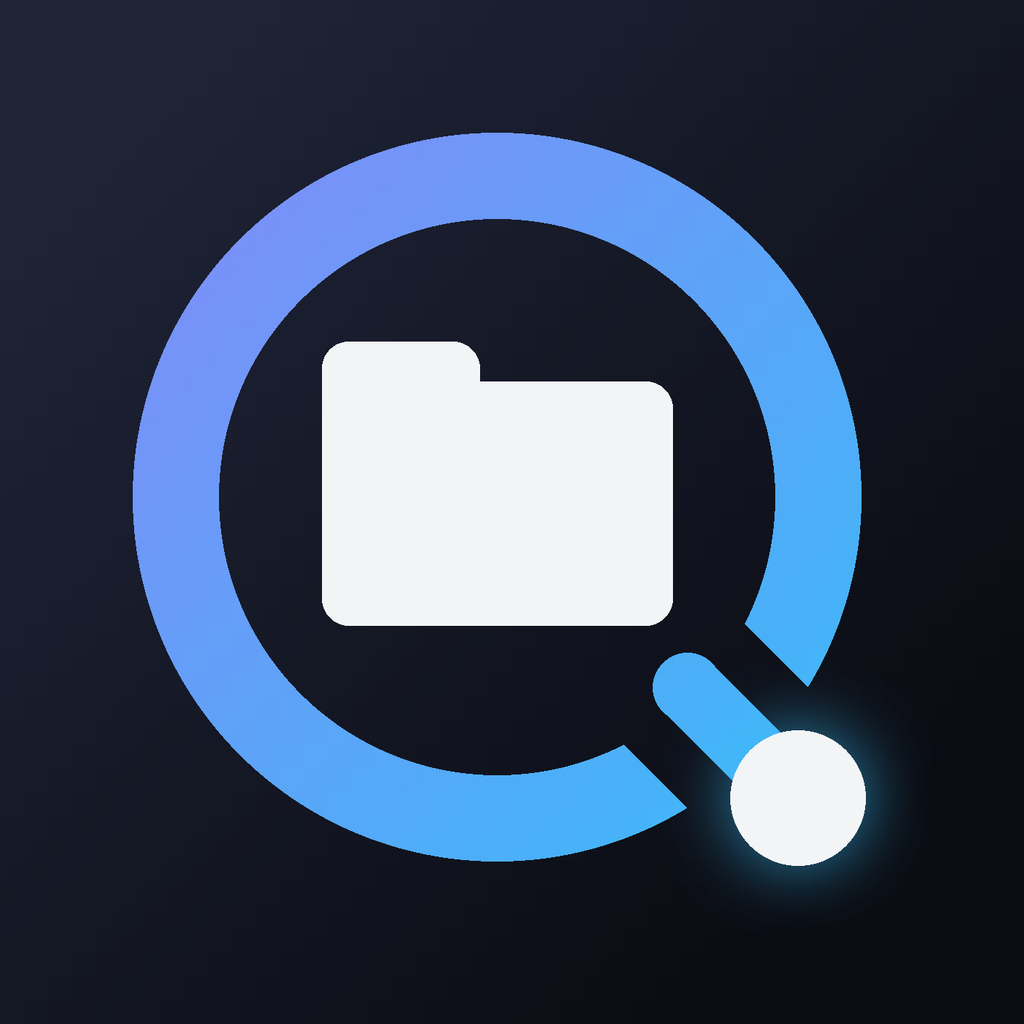
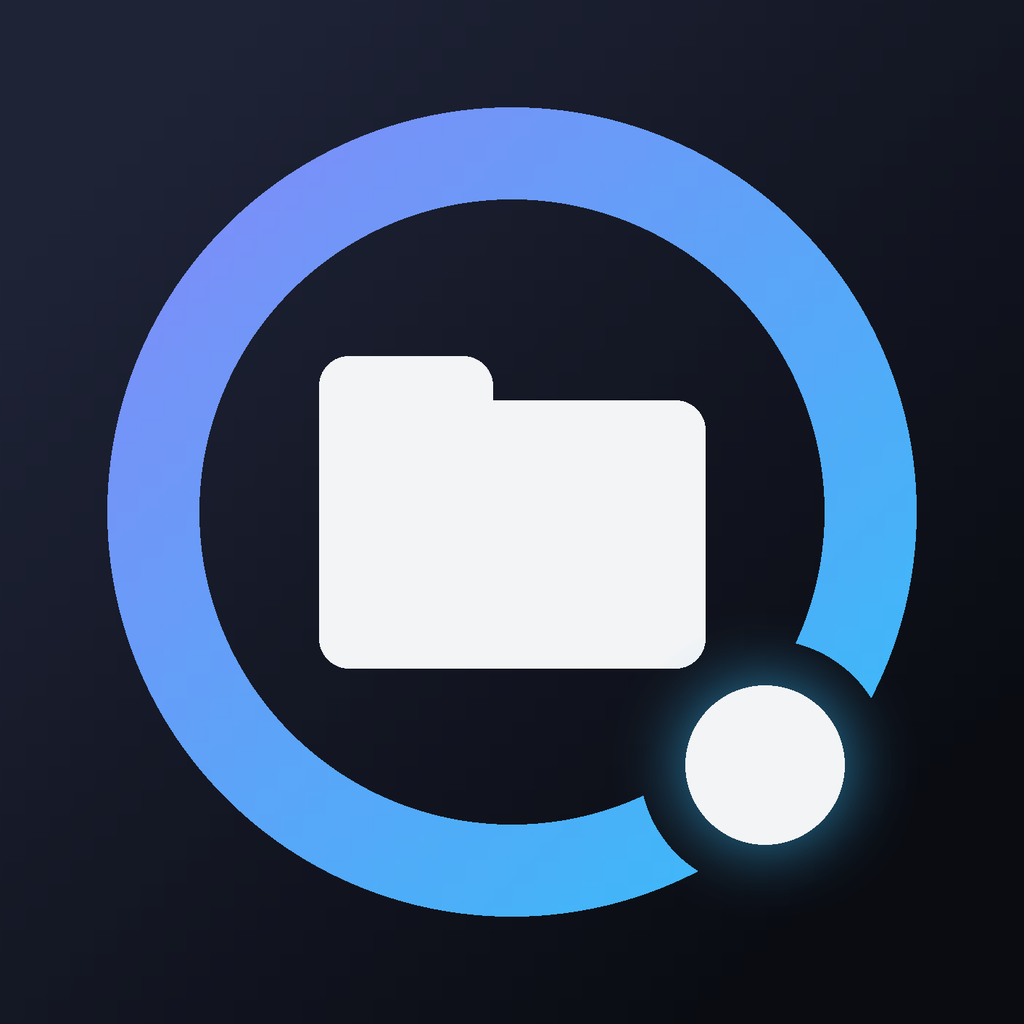
feat(ui): alinear el icono de Qubit Explorer con el de VidForge
Usa la misma composición que VidForge (aro, corte y nodo encendido) con
la carpeta en el centro. Agrega el SVG editable en Resources.

Changed region(s): [[0.0938, 0.0938, 0.9062, 0.9062]]

diff --git a/generate_icon.py b/generate_icon.py
@@ -1,11 +1,11 @@
-"""Genera el ícono de Qubit Explorer: una Q con carpeta y un qubit al final de la cola."""
+"""Genera el ícono de Qubit Explorer: un aro con carpeta y un nodo encendido en el corte, igual que VidForge."""
 import os
 
 from PIL import Image, ImageDraw, ImageFilter
 
 S = 2048
 VIOLET, AQUA, WHITE = (129, 140, 248), (56, 189, 248), (243, 244, 246)
-CX, CY = S * 0.49, S * 0.49
+CX, CY = S * 0.5, S * 0.5
 
 
 def gradient(c1, c2):
@@ -24,50 +24,42 @@ def background():
 def masks():
     ring = Image.new("L", (S, S), 0)
     d = ImageDraw.Draw(ring)
-    R, w = S * 0.245, S * 0.058
+    R, w = S * 0.272, S * 0.062
     d.ellipse([CX - R, CY - R, CX + R, CY + R], fill=255)
     r = R - w
     d.ellipse([CX - r, CY - r, CX + r, CY + r], fill=0)
-    # Corte de la Q alrededor de la cola
+    # Nodo: va sobre la línea media del aro, en el mismo eje de la cola de la Q
     k = 0.7071
-    a, b = R * 0.70, R * 1.22
-    p1, p2 = (CX + a * k, CY + a * k), (CX + b * k, CY + b * k)
-    d.line([p1, p2], fill=0, width=int(w * 2.0))
-    # Cola
-    tail = Image.new("L", (S, S), 0)
-    t = ImageDraw.Draw(tail)
-    a2, b2 = R * 0.74, R * 1.17
-    q1, q2 = (CX + a2 * k, CY + a2 * k), (CX + b2 * k, CY + b2 * k)
-    t.line([q1, q2], fill=255, width=int(w * 0.8))
-    t.ellipse([q1[0] - w * .4, q1[1] - w * .4, q1[0] + w * .4, q1[1] + w * .4], fill=255)
-    # Carpeta
-    folder = Image.new("L", (S, S), 0)
-    f = ImageDraw.Draw(folder)
-    fw, fh = S * 0.118, S * 0.082
-    rad = S * 0.018
-    f.rounded_rectangle([CX - fw, CY - fh * 1.28, CX - fw * .1, CY], radius=rad, fill=255)
-    f.rounded_rectangle([CX - fw, CY - fh * .95, CX + fw, CY + fh * 1.05], radius=rad, fill=255)
-    # Qubit: el punto al final de la cola
+    mid = R - w / 2
+    nx, ny = CX + mid * k, CY + mid * k
+    dr = w * 0.86
+    # Corte del aro alrededor del nodo
+    cut = dr + w * 0.5
+    d.ellipse([nx - cut, ny - cut, nx + cut, ny + cut], fill=0)
+    # Carpeta: centrada contando la pestaña
+    glyph = Image.new("L", (S, S), 0)
+    f = ImageDraw.Draw(glyph)
+    fw, fh = S * 0.13, S * 0.09
+    rad = S * 0.02
+    oy = CY + fh * 0.115
+    f.rounded_rectangle([CX - fw, oy - fh * 1.28, CX - fw * .1, oy], radius=rad, fill=255)
+    f.rounded_rectangle([CX - fw, oy - fh * .95, CX + fw, oy + fh * 1.05], radius=rad, fill=255)
     dot = Image.new("L", (S, S), 0)
-    g = ImageDraw.Draw(dot)
-    dr = w * 0.78
-    g.ellipse([q2[0] - dr, q2[1] - dr, q2[0] + dr, q2[1] + dr], fill=255)
-    return ring, tail, folder, dot
+    ImageDraw.Draw(dot).ellipse([nx - dr, ny - dr, nx + dr, ny + dr], fill=255)
+    return ring, glyph, dot
 
 
 def foreground(mono=False):
-    ring, tail, folder, dot = masks()
+    ring, glyph, dot = masks()
     out = Image.new("RGBA", (S, S), (0, 0, 0, 0))
     if mono:
         out.paste((255, 255, 255, 255), mask=ring)
-        out.paste((255, 255, 255, 255), mask=tail)
-        out.paste((255, 255, 255, 255), mask=folder)
+        out.paste((255, 255, 255, 255), mask=glyph)
         out.paste((255, 255, 255, 255), mask=dot)
         return out
     grad = gradient(VIOLET, AQUA).convert("RGBA")
     out.paste(grad, mask=ring)
-    out.paste(grad, mask=tail)
-    out.paste(WHITE + (255,), mask=folder)
+    out.paste(WHITE + (255,), mask=glyph)
     glow = dot.filter(ImageFilter.GaussianBlur(S * 0.022)).point(lambda v: int(v * .7))
     layer = Image.new("RGBA", (S, S), AQUA + (0,))
     layer.putalpha(glow)
@@ -107,6 +99,7 @@ for name, px in {"mdpi": 48, "hdpi": 72, "xhdpi": 96, "xxhdpi": 144, "xxxhdpi": 
     rounded(icon, px, 0.5).save(os.path.join(folder, "ic_launcher_round.png"))
 
 icon.resize((256, 256), Image.LANCZOS).save(os.path.join(res, "drawable", "app_logo.png"))
+os.makedirs("Resources", exist_ok=True)
 icon.resize((1024, 1024), Image.LANCZOS).save(os.path.join("Resources", "app_icon.png"))
 icon.resize((512, 512), Image.LANCZOS).save(os.path.join("Resources", "app_icon_play_store.png"))
 icon.resize((256, 256), Image.LANCZOS).save(os.path.join("Resources", "app_icon.ico"), sizes=[(16, 16), (32, 32), (48, 48), (256, 256)])
